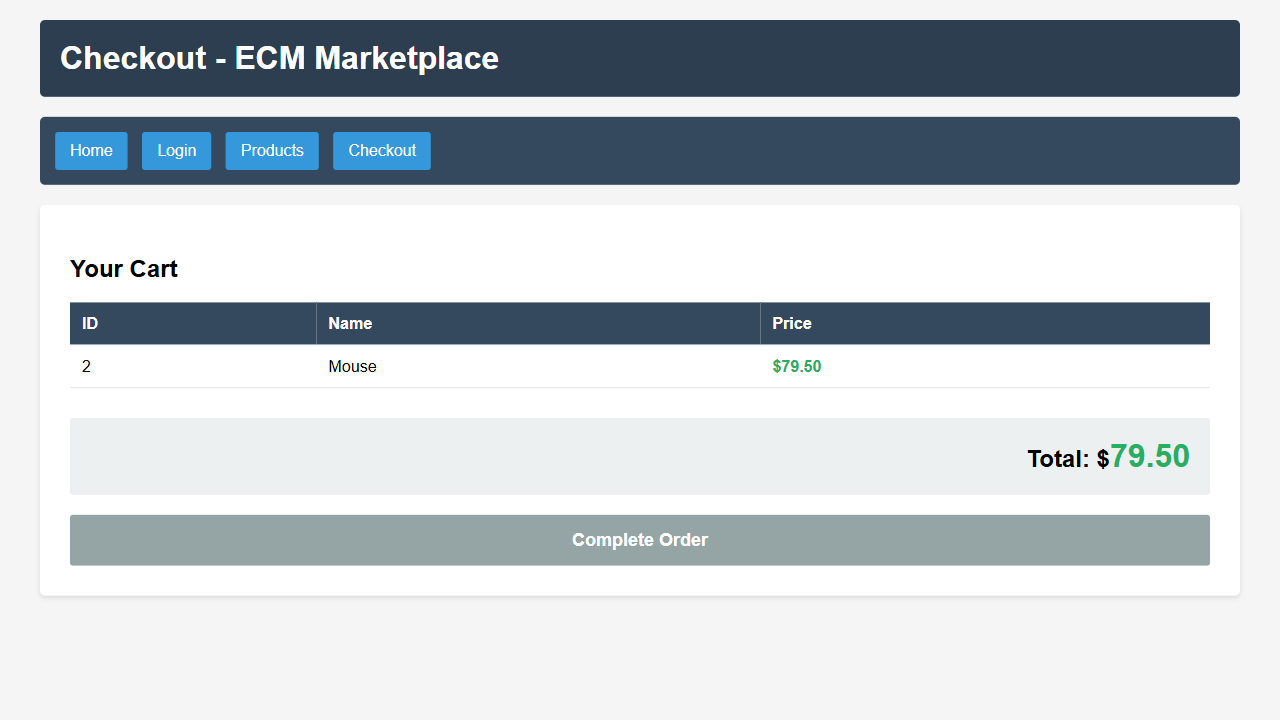
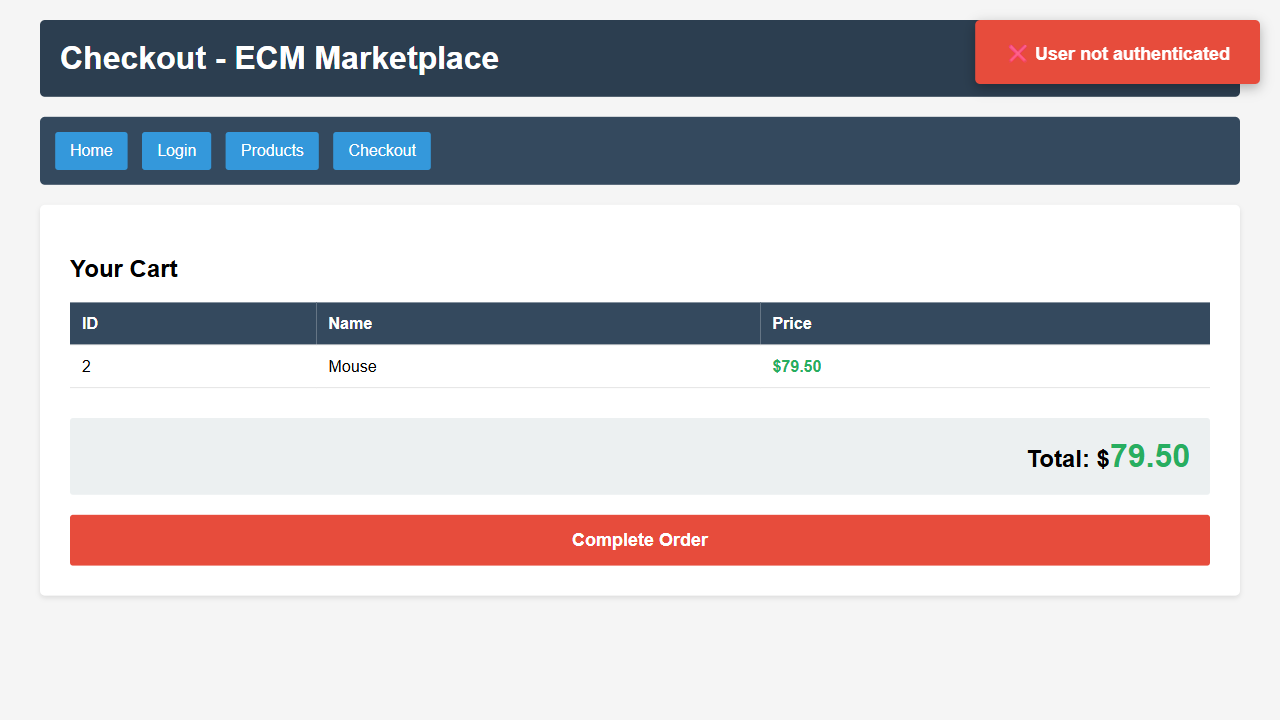
usuario nao autentificado

Changed region(s): [[0.0312, 0.7028, 0.9688, 0.7944], [0.75, 0.0306, 1.0, 0.1222]]

diff --git a/tests/FrontEnd/checkout.spec.ts b/tests/FrontEnd/checkout.spec.ts
@@ -3,11 +3,11 @@ import { NavegationPage } from './navegationPage';
 
 
 test.beforeEach(async ({ page }) => {
-     const browser = await webkit.launch();
-         const context = await browser.newContext();
-         await page.goto('http://localhost:8080/');
-         await expect(page).toHaveURL('http://localhost:8080/');
-         await page.screenshot({path: "Evidencias/Checkout/BeforeEach.png"});
+  const browser = await webkit.launch();
+  const context = await browser.newContext();
+  await page.goto('http://localhost:8080/');
+  await expect(page).toHaveURL('http://localhost:8080/');
+  await page.screenshot({path: "Evidencias/Checkout/BeforeEach.png"});
   });
 
 test.describe.parallel('checkout', () => {
@@ -57,6 +57,7 @@ test.describe.parallel('checkout', () => {
         }
         else {
             await page.click('#btnFinish');
+            await expect(page.locator('#msg')).toHaveText('User not authenticated');
         }   
         //await page.locator('#btnFinish').click();
         await page.screenshot({path: "Evidencias/checkout/CheckoutProdutoBotaoCompleteOrder2.png"});
